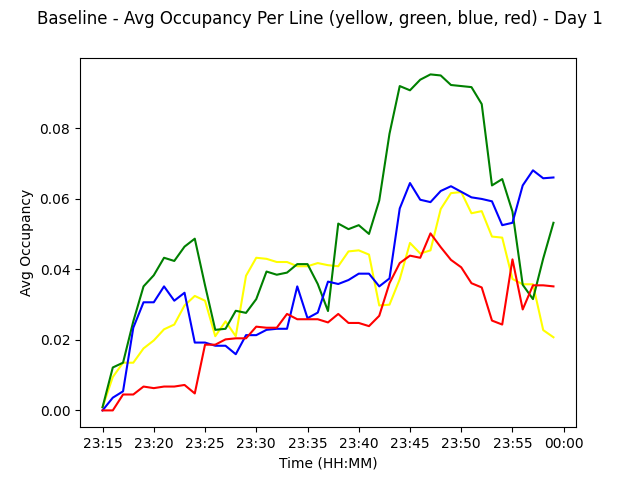
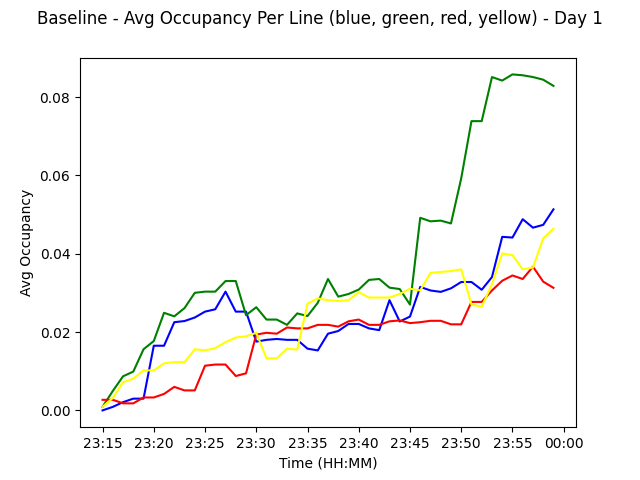
baseline and reactive working good for a streak of days

diff --git a/src/Utils/Reporter.py b/src/Utils/Reporter.py
@@ -25,7 +25,7 @@ class Reporter:
         #Guarda a ocupacao media de cada comboio
         self.avg_train_occupancy = {}
 
-        for c in ["green","yellow","red","blue"]:
+        for c in ['blue','green','red','yellow']:
             self.avg_waiting_time_hour[c] = []
             self.avg_train_occupancy[c] = []
         #Guarda as horas.
@@ -46,10 +46,11 @@ class Reporter:
         res = "     METROS LANÇADOS POR LINHA:"
         print(res)
         res =  "-------------------------------------------------------" + "\n" + res
-        for color in ["red","green","blue","yellow"]:
+        for color in ['blue','green','red','yellow']:
             tmp = "         " + str(color) + ":"
             for way in ["-1","1"]:
-                tmp += " Sentido  " + str(way)  + " : " + str(trains_per_line[color][way]) + "     "            
+                tmp += " Sentido  " + str(way)  + " : " + str(trains_per_line[color][way]) + "     "  
+                print(tmp)          
             res += "\n" + tmp 
             print(tmp)
         return res
@@ -57,7 +58,7 @@ class Reporter:
 
     def add_to_logs(self,trains_of_the_day):
         with open("../logs/logs.txt", "a") as file_object:
-            file_object.write("-------------------------------------------------------\n")
+            file_object.write("\n-------------------------------------------------------\n")
 
             tmp = "REPORT DO DIA " + str(self.day) + " :"
             print(tmp)
@@ -179,6 +180,7 @@ class Reporter:
 
 
         print("Showing daily average occupancy...")
+        print("o valor do dia e: " + str(self.day))
         plt.savefig('../plots/daily_average_occupancy_day' + str(self.day)  + '.png')
         
         if show_plots: plt.show()

diff --git a/src/Line.py b/src/Line.py
@@ -94,17 +94,23 @@ class Line:
         self.trains = []
 
         if color == 'red':
-            self.stations = red
+            self.stations = red #adiciona metro as 6 e 15 nos dois sentidos
+            self.trains += [Train(0, 3, [Carriage(base_carriage_capacity*6, self)], 3, 4, colors[color], gui, red, 1, self.color)]
             self.trains += [Train(0, 3, [Carriage(base_carriage_capacity*6, self)], 3, 4, colors[color], gui, red[::-1], -1, self.color)]
         elif color == 'yellow':
             self.stations = yellow
             self.trains += [Train(0, 3, [Carriage(base_carriage_capacity*6, self)], 3, 4, colors[color], gui, yellow, 1, self.color)]
+            self.trains += [Train(0, 3, [Carriage(base_carriage_capacity*6, self)], 3, 4, colors[color], gui, yellow[::-1], -1, self.color)]
+
         elif color == 'green':
             self.stations = green
             self.trains += [Train(0, 3, [Carriage(base_carriage_capacity*6, self)], 3, 4, colors[color], gui, green, 1, self.color)]
+            self.trains += [Train(0, 3, [Carriage(base_carriage_capacity*6, self)], 3, 4, colors[color], gui, green[::-1], -1, self.color)]
+
         elif color == 'blue':
             self.stations = blue
             self.trains += [Train(0, 3, [Carriage(base_carriage_capacity*6, self)], 1, 4, colors[color], gui, blue, 1, self.color)]
+            self.trains += [Train(0, 3, [Carriage(base_carriage_capacity*6, self)], 3, 4, colors[color], gui, blue[::-1], -1, self.color)]
         self.number_of_trains = 1
         
         #gui stuff

diff --git a/src/Utils/global_vars.py b/src/Utils/global_vars.py
@@ -18,17 +18,17 @@ def add_flags(args):
     re2 = re.compile('--behavior=+')
     re3 = re.compile('--opt=+')
     flags['opt'] = None
-    flags['colors'] = []
+    flags['colors'] = ['blue','green','red','yellow']
     flags['behavior'] = 'baseline'
     flags['std'] = False
 
     for arg in args:
         if re1.match(arg) != None:
             arg = arg.split('=')[1]
-            if arg in ['yellow', 'green', 'blue', 'red']:
+            if arg in ['blue','green','red','yellow']:
                 flags['colors'] = [arg]
             elif arg == 'ALL':
-                flags['colors'] = ['yellow', 'green', 'blue', 'red']
+                flags['colors'] = ['blue','green','red','yellow']
         if re2.match(arg) != None:
             arg = arg.split('=')[1]
             if arg in ['reactive', 'deliberative','baseline']:

diff --git a/src/Orchestrator.py b/src/Orchestrator.py
@@ -84,7 +84,7 @@ class Orchestrator:
                 else: occupancy_ratio = 0
 
                 #o or e porque podem nao existir trains a circular dai a ocupacao ser 0.
-                if (n_persons / len(stations) > 30 and occupancy_ratio > 0.65) or (n_persons / len(stations) > 30 and trains == {}):
+                if (n_persons / len(stations) > 30 and occupancy_ratio > 0.70) or (n_persons / len(stations) > 30 and trains == {}):
                     res['new_train'] += self.add_new_train(ways[way])
                     self.trains_per_line[color][str(ways[way])]+=1
 

diff --git a/src/Environment.py b/src/Environment.py
@@ -23,7 +23,7 @@ class Environment:
                       Line('green', 2, self.reporter, self.gui)]
         self.orchestrator = Orchestrator(self.lines)
 
-        self.time = datetime.time(23,15)
+        self.time = datetime.time(6,15)
         self.day = 1
 
     #TIME MEASURE
@@ -124,7 +124,6 @@ class Environment:
                 self.orchestrator.percept(self.time.hour, self.time.minute)
                 decisions = self.orchestrator.deliberate()
                 self.update_lines(decisions)
-
                 self.gui.run(self.day)
 
                 self.tik()
